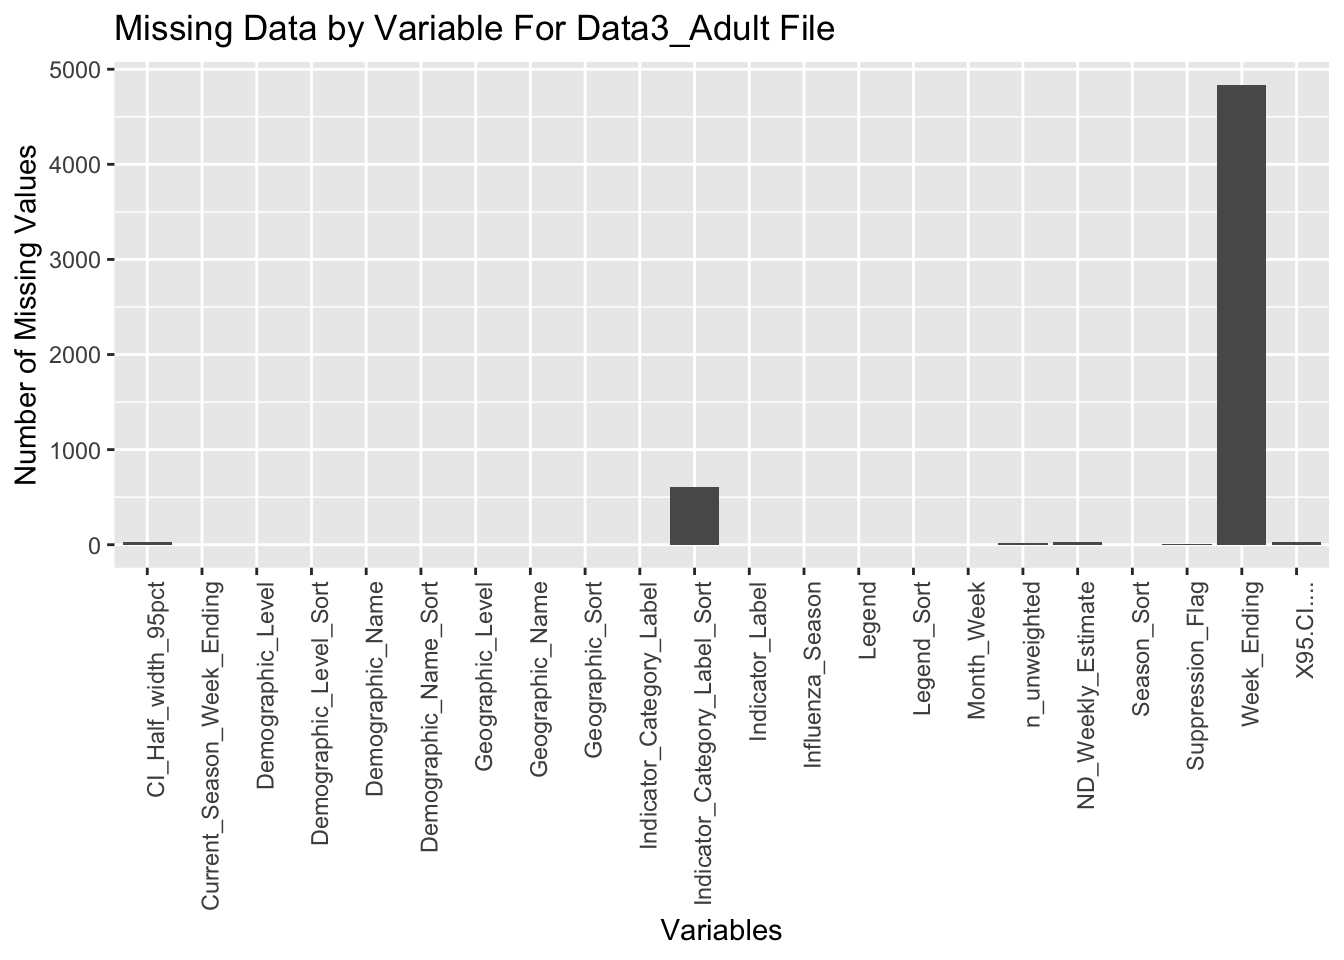
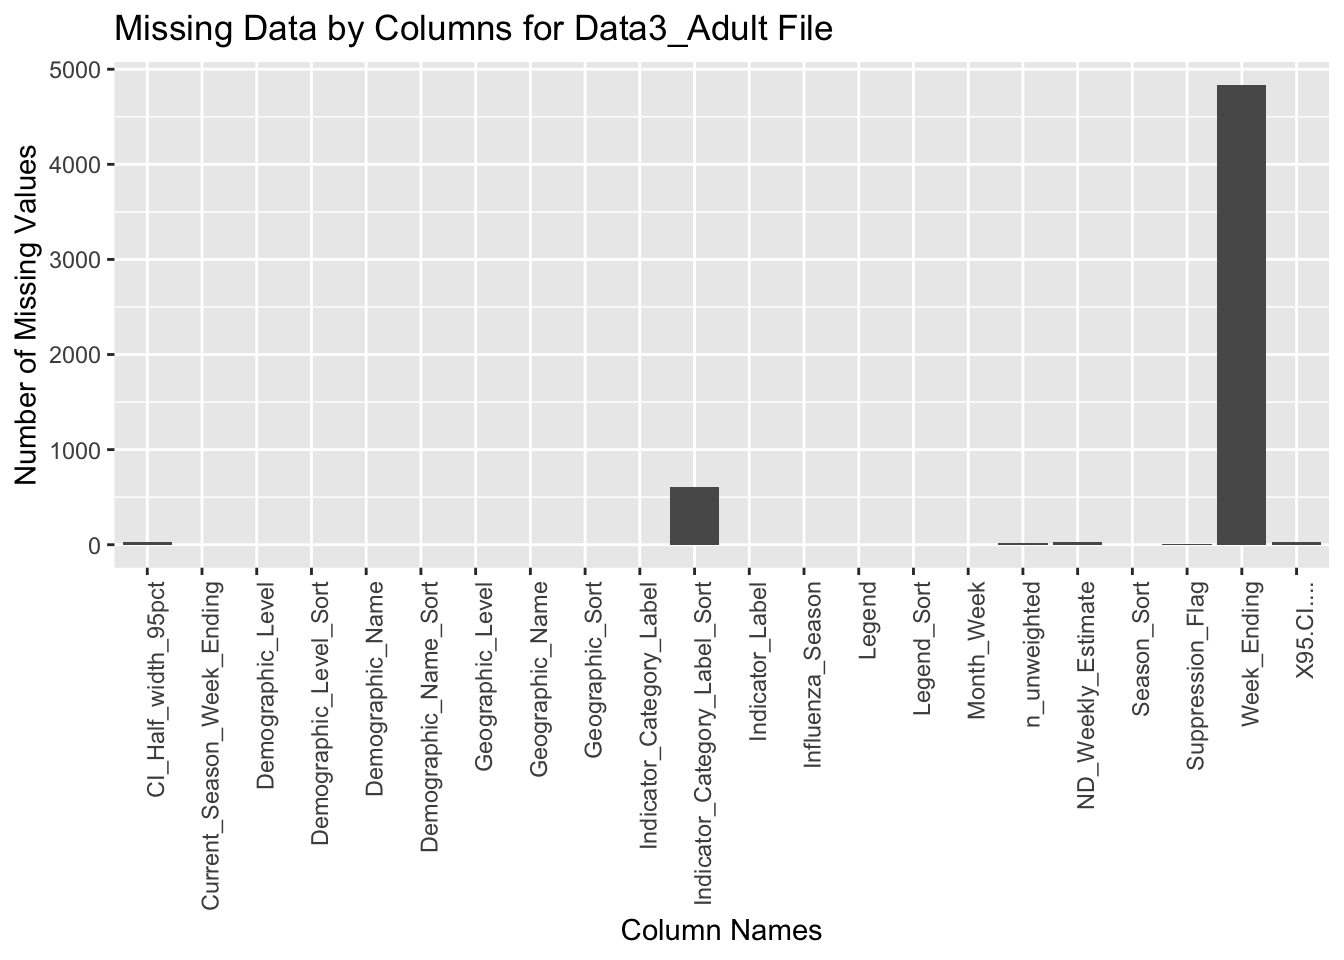
Update data.

Changed region(s): [[0.2812, 0.0, 0.625, 0.0625], [0.4688, 0.9375, 0.625, 1.0]]

diff --git a/docs/data.html b/docs/data.html
@@ -206,7 +206,7 @@ pre > code.sourceCode > span > a:first-child::before { text-decoration: underlin
 <h2 data-number="2.1" class="anchored" data-anchor-id="description"><span class="header-section-number">2.1</span> Description</h2>
 <p>To find out whether there are any changes to disease casualties and other plausible factors that might also cause the changes, we collected several datasets from Centers for Disease Control and Prevention. Thanks to the easy access to the data by the Centers for Disease Control and Prevention, the datasets are all downloadable in csv file types. Thus, we first downloaded the data and then uploaded to the data folder in the working directory of the project for convenience of data cleaning, processing and visualizing.</p>
 <p>Data Source 1:<br>
-The first one is “Pneumonia and Influenza Mortality Surveillance” from National Center for Health Statistics (NCHS) Mortality Surveillance System, a table of dimension 19345 by 14 when choosing state data. The data sources are collected by NCHS through State Vital Statistics Offices across the United States. The deaths which is confirmed through death certificate include multiple cause associated with influenza, pneumonia, or COVID. Because the data are collected weekly, they are updated and aggregated by weeks and will be displayed from 1 to 52 through a complete year. Note that the value total deaths include all the frequency based on ICD-10 multiple cause of death so it doesn’t equal to the sum of deaths from influenza, pneumonia and COVID-19 only.</p>
+The first one is “Pneumonia and Influenza Mortality Surveillance” from National Center for Health Statistics (NCHS) Mortality Surveillance System, a table of dimension 19345 by 14 when choosing state data. The data sources are collected by NCHS through State Vital Statistics Offices across the United States. The deaths which is confirmed through death certificate include multiple causes associated with influenza, pneumonia, or COVID. Because the data are collected weekly, they are updated and aggregated by weeks and will be displayed from 1 to 52 through a complete year. Note that the value total deaths include all the frequency based on ICD-10 multiple cause of death so it doesn’t equal to the sum of deaths from influenza, pneumonia and COVID-19 only.</p>
 <p>The link to the data source is as follows:<br>
 https://gis.cdc.gov/grasp/fluview/Mortality.html</p>
 <p>Data Source 2:<br>
@@ -372,7 +372,7 @@ The final ones are “Weekly Cumulative Influenza Vaccination Coverage, Children
 <p><img src="data_files/figure-html/unnamed-chunk-5-1.png" class="img-fluid" width="672"></p>
 </div>
 </div>
-<p>In dataset 2, a lot of diseases have null values different states such as Alaska, Arkansas, Colorado, Connecticut, Delaware, District of Columbia, Hawaii, Idaho, Indiana, Iowa, Kansas, Louisiana, Maine, Maryland, Minnesota, most of which are missing in influenza and pneumonia, and abnormal clinical findings.</p>
+<p>In dataset 2, a lot of diseases have null values different states such as Alaska, Arkansas, Colorado, Connecticut, Delaware, District of Columbia, Hawaii, Idaho, Indiana, Iowa, Kansas, Louisiana, Maine, Maryland, Minnesota, most of which are missing in influenza and pneumonia, and abnormal clinical findings. Since the column name is relatively long in this file, we use column index while ploting instead.</p>
 <div class="cell">
 <details>
 <summary>Code</summary>
@@ -387,72 +387,70 @@ The final ones are “Weekly Cumulative Influenza Vaccination Coverage, Children
 <span id="cb11-9"><a href="#cb11-9" aria-hidden="true" tabindex="-1"></a></span>
 <span id="cb11-10"><a href="#cb11-10" aria-hidden="true" tabindex="-1"></a><span class="co"># Apply this function to every column in the dataframe</span></span>
 <span id="cb11-11"><a href="#cb11-11" aria-hidden="true" tabindex="-1"></a>missing_counts <span class="ot">&lt;-</span> <span class="fu">sapply</span>(data2, count_missing)</span>
-<span id="cb11-12"><a href="#cb11-12" aria-hidden="true" tabindex="-1"></a><span class="co"># Creating a data frame for ggplot</span></span>
-<span id="cb11-13"><a href="#cb11-13" aria-hidden="true" tabindex="-1"></a>variable_indices <span class="ot">&lt;-</span> <span class="dv">1</span><span class="sc">:</span><span class="fu">length</span>(missing_counts)</span>
-<span id="cb11-14"><a href="#cb11-14" aria-hidden="true" tabindex="-1"></a>missing_data_df1 <span class="ot">&lt;-</span> <span class="fu">data.frame</span>(</span>
-<span id="cb11-15"><a href="#cb11-15" aria-hidden="true" tabindex="-1"></a>  <span class="at">Variable =</span> variable_indices,</span>
-<span id="cb11-16"><a href="#cb11-16" aria-hidden="true" tabindex="-1"></a>  <span class="at">MissingValues =</span> missing_counts</span>
-<span id="cb11-17"><a href="#cb11-17" aria-hidden="true" tabindex="-1"></a>)</span>
-<span id="cb11-18"><a href="#cb11-18" aria-hidden="true" tabindex="-1"></a></span>
-<span id="cb11-19"><a href="#cb11-19" aria-hidden="true" tabindex="-1"></a><span class="co"># Plotting the bar chart</span></span>
-<span id="cb11-20"><a href="#cb11-20" aria-hidden="true" tabindex="-1"></a><span class="fu">ggplot</span>(missing_data_df1, <span class="fu">aes</span>(<span class="at">x =</span> Variable, <span class="at">y =</span> MissingValues)) <span class="sc">+</span></span>
-<span id="cb11-21"><a href="#cb11-21" aria-hidden="true" tabindex="-1"></a>  <span class="fu">geom_bar</span>(<span class="at">stat =</span> <span class="st">"identity"</span>) <span class="sc">+</span></span>
-<span id="cb11-22"><a href="#cb11-22" aria-hidden="true" tabindex="-1"></a>  <span class="fu">theme</span>(<span class="at">axis.text.x =</span> <span class="fu">element_text</span>(<span class="at">angle =</span> <span class="dv">90</span>, <span class="at">hjust =</span> <span class="dv">1</span>)) <span class="sc">+</span></span>
-<span id="cb11-23"><a href="#cb11-23" aria-hidden="true" tabindex="-1"></a>  <span class="fu">labs</span>(<span class="at">x =</span> <span class="st">"Variable Index"</span>, <span class="at">y =</span> <span class="st">"Number of Missing Values"</span>, <span class="at">title =</span> <span class="st">"Missing Data by Variable For Data2 File"</span>)</span></code><button title="Copy to Clipboard" class="code-copy-button"><i class="bi"></i></button></pre></div>
+<span id="cb11-12"><a href="#cb11-12" aria-hidden="true" tabindex="-1"></a></span>
+<span id="cb11-13"><a href="#cb11-13" aria-hidden="true" tabindex="-1"></a><span class="co"># Change column name to its corresponding index</span></span>
+<span id="cb11-14"><a href="#cb11-14" aria-hidden="true" tabindex="-1"></a><span class="co"># Creating a data frame for ggplot</span></span>
+<span id="cb11-15"><a href="#cb11-15" aria-hidden="true" tabindex="-1"></a>variable_indices <span class="ot">&lt;-</span> <span class="dv">1</span><span class="sc">:</span><span class="fu">length</span>(missing_counts)</span>
+<span id="cb11-16"><a href="#cb11-16" aria-hidden="true" tabindex="-1"></a>missing_data_df1 <span class="ot">&lt;-</span> <span class="fu">data.frame</span>(</span>
+<span id="cb11-17"><a href="#cb11-17" aria-hidden="true" tabindex="-1"></a>  <span class="at">Variable =</span> variable_indices,</span>
+<span id="cb11-18"><a href="#cb11-18" aria-hidden="true" tabindex="-1"></a>  <span class="at">MissingValues =</span> missing_counts</span>
+<span id="cb11-19"><a href="#cb11-19" aria-hidden="true" tabindex="-1"></a>)</span>
+<span id="cb11-20"><a href="#cb11-20" aria-hidden="true" tabindex="-1"></a></span>
+<span id="cb11-21"><a href="#cb11-21" aria-hidden="true" tabindex="-1"></a><span class="co"># Plotting the bar chart</span></span>
+<span id="cb11-22"><a href="#cb11-22" aria-hidden="true" tabindex="-1"></a><span class="fu">ggplot</span>(missing_data_df1, <span class="fu">aes</span>(<span class="at">x =</span> Variable, <span class="at">y =</span> MissingValues)) <span class="sc">+</span></span>
+<span id="cb11-23"><a href="#cb11-23" aria-hidden="true" tabindex="-1"></a>  <span class="fu">geom_bar</span>(<span class="at">stat =</span> <span class="st">"identity"</span>) <span class="sc">+</span></span>
+<span id="cb11-24"><a href="#cb11-24" aria-hidden="true" tabindex="-1"></a>  <span class="fu">theme</span>(<span class="at">axis.text.x =</span> <span class="fu">element_text</span>(<span class="at">angle =</span> <span class="dv">90</span>, <span class="at">hjust =</span> <span class="dv">1</span>)) <span class="sc">+</span></span>
+<span id="cb11-25"><a href="#cb11-25" aria-hidden="true" tabindex="-1"></a>  <span class="fu">labs</span>(<span class="at">x =</span> <span class="st">"Variable Index"</span>, <span class="at">y =</span> <span class="st">"Number of Missing Values"</span>, <span class="at">title =</span> <span class="st">"Missing Data by Columns for Data2 File"</span>)</span></code><button title="Copy to Clipboard" class="code-copy-button"><i class="bi"></i></button></pre></div>
 </details>
 <div class="cell-output-display">
 <p><img src="data_files/figure-html/unnamed-chunk-6-1.png" class="img-fluid" width="672"></p>
 </div>
-<details>
-<summary>Code</summary>
-<div class="sourceCode cell-code" id="cb12"><pre class="sourceCode r code-with-copy"><code class="sourceCode r"><span id="cb12-1"><a href="#cb12-1" aria-hidden="true" tabindex="-1"></a><span class="fu">ggsave</span>(<span class="st">'data2missing.png'</span>)</span></code><button title="Copy to Clipboard" class="code-copy-button"><i class="bi"></i></button></pre></div>
-</details>
 </div>
 <p>In dataset 3, it seems that Guam in “Weekly Cumulative Influenza Vaccination Coverage for Children” tends to have missing values for a few estimation variables such as point estimate, and confidence intervals while the data belongs to “Up-to-date” indicator label in “Weekly Cumulative Influenza Vaccination Coverage for Adults” are highly likely to appear missing.</p>
 <div class="cell">
 <details>
 <summary>Code</summary>
-<div class="sourceCode cell-code" id="cb13"><pre class="sourceCode r code-with-copy"><code class="sourceCode r"><span id="cb13-1"><a href="#cb13-1" aria-hidden="true" tabindex="-1"></a>data3_adult <span class="ot">&lt;-</span> <span class="fu">read.csv</span>(<span class="st">"data/data3_adult.csv"</span>)</span>
-<span id="cb13-2"><a href="#cb13-2" aria-hidden="true" tabindex="-1"></a>data3_youth <span class="ot">&lt;-</span> <span class="fu">read.csv</span>(<span class="st">"data/data3_youth.csv"</span>)</span>
-<span id="cb13-3"><a href="#cb13-3" aria-hidden="true" tabindex="-1"></a></span>
-<span id="cb13-4"><a href="#cb13-4" aria-hidden="true" tabindex="-1"></a><span class="co"># Define a function to count missing values</span></span>
-<span id="cb13-5"><a href="#cb13-5" aria-hidden="true" tabindex="-1"></a>count_missing <span class="ot">&lt;-</span> <span class="cf">function</span>(x) {</span>
-<span id="cb13-6"><a href="#cb13-6" aria-hidden="true" tabindex="-1"></a>  na_count <span class="ot">&lt;-</span> <span class="fu">sum</span>(<span class="fu">is.na</span>(x))             <span class="co"># Count NA values</span></span>
-<span id="cb13-7"><a href="#cb13-7" aria-hidden="true" tabindex="-1"></a>  blank_count <span class="ot">&lt;-</span> <span class="fu">sum</span>(x <span class="sc">==</span> <span class="st">""</span>, <span class="at">na.rm =</span> <span class="cn">TRUE</span>) <span class="co"># Count blank strings, remove NA from count</span></span>
-<span id="cb13-8"><a href="#cb13-8" aria-hidden="true" tabindex="-1"></a>  <span class="fu">return</span>(na_count <span class="sc">+</span> blank_count)</span>
-<span id="cb13-9"><a href="#cb13-9" aria-hidden="true" tabindex="-1"></a>}</span>
-<span id="cb13-10"><a href="#cb13-10" aria-hidden="true" tabindex="-1"></a></span>
-<span id="cb13-11"><a href="#cb13-11" aria-hidden="true" tabindex="-1"></a><span class="co"># Apply this function to every column in the dataframe</span></span>
-<span id="cb13-12"><a href="#cb13-12" aria-hidden="true" tabindex="-1"></a>missing_counts3a <span class="ot">&lt;-</span> <span class="fu">sapply</span>(data3_adult, count_missing)</span>
-<span id="cb13-13"><a href="#cb13-13" aria-hidden="true" tabindex="-1"></a>missing_counts3y <span class="ot">&lt;-</span> <span class="fu">sapply</span>(data3_youth, count_missing)</span>
-<span id="cb13-14"><a href="#cb13-14" aria-hidden="true" tabindex="-1"></a><span class="co"># Creating a data frame for ggplot</span></span>
-<span id="cb13-15"><a href="#cb13-15" aria-hidden="true" tabindex="-1"></a>missing_data_df3a <span class="ot">&lt;-</span> <span class="fu">data.frame</span>(</span>
-<span id="cb13-16"><a href="#cb13-16" aria-hidden="true" tabindex="-1"></a>  <span class="at">Variable =</span> <span class="fu">names</span>(missing_counts3a),</span>
-<span id="cb13-17"><a href="#cb13-17" aria-hidden="true" tabindex="-1"></a>  <span class="at">MissingValues =</span> missing_counts3a</span>
-<span id="cb13-18"><a href="#cb13-18" aria-hidden="true" tabindex="-1"></a>)</span>
-<span id="cb13-19"><a href="#cb13-19" aria-hidden="true" tabindex="-1"></a></span>
-<span id="cb13-20"><a href="#cb13-20" aria-hidden="true" tabindex="-1"></a><span class="co"># Plotting the bar chart</span></span>
-<span id="cb13-21"><a href="#cb13-21" aria-hidden="true" tabindex="-1"></a><span class="fu">ggplot</span>(missing_data_df3a, <span class="fu">aes</span>(<span class="at">x =</span> Variable, <span class="at">y =</span> MissingValues)) <span class="sc">+</span></span>
-<span id="cb13-22"><a href="#cb13-22" aria-hidden="true" tabindex="-1"></a>  <span class="fu">geom_bar</span>(<span class="at">stat =</span> <span class="st">"identity"</span>) <span class="sc">+</span></span>
-<span id="cb13-23"><a href="#cb13-23" aria-hidden="true" tabindex="-1"></a>  <span class="fu">theme</span>(<span class="at">axis.text.x =</span> <span class="fu">element_text</span>(<span class="at">angle =</span> <span class="dv">90</span>, <span class="at">hjust =</span> <span class="dv">1</span>)) <span class="sc">+</span></span>
-<span id="cb13-24"><a href="#cb13-24" aria-hidden="true" tabindex="-1"></a>  <span class="fu">labs</span>(<span class="at">x =</span> <span class="st">"Variables"</span>, <span class="at">y =</span> <span class="st">"Number of Missing Values"</span>, <span class="at">title =</span> <span class="st">"Missing Data by Variable For Data3_Adult File"</span>)</span></code><button title="Copy to Clipboard" class="code-copy-button"><i class="bi"></i></button></pre></div>
+<div class="sourceCode cell-code" id="cb12"><pre class="sourceCode r code-with-copy"><code class="sourceCode r"><span id="cb12-1"><a href="#cb12-1" aria-hidden="true" tabindex="-1"></a>data3_adult <span class="ot">&lt;-</span> <span class="fu">read.csv</span>(<span class="st">"data/data3_adult.csv"</span>)</span>
+<span id="cb12-2"><a href="#cb12-2" aria-hidden="true" tabindex="-1"></a>data3_youth <span class="ot">&lt;-</span> <span class="fu">read.csv</span>(<span class="st">"data/data3_youth.csv"</span>)</span>
+<span id="cb12-3"><a href="#cb12-3" aria-hidden="true" tabindex="-1"></a></span>
+<span id="cb12-4"><a href="#cb12-4" aria-hidden="true" tabindex="-1"></a><span class="co"># Define a function to count missing values</span></span>
+<span id="cb12-5"><a href="#cb12-5" aria-hidden="true" tabindex="-1"></a>count_missing <span class="ot">&lt;-</span> <span class="cf">function</span>(x) {</span>
+<span id="cb12-6"><a href="#cb12-6" aria-hidden="true" tabindex="-1"></a>  na_count <span class="ot">&lt;-</span> <span class="fu">sum</span>(<span class="fu">is.na</span>(x))             <span class="co"># Count NA values</span></span>
+<span id="cb12-7"><a href="#cb12-7" aria-hidden="true" tabindex="-1"></a>  blank_count <span class="ot">&lt;-</span> <span class="fu">sum</span>(x <span class="sc">==</span> <span class="st">""</span>, <span class="at">na.rm =</span> <span class="cn">TRUE</span>) <span class="co"># Count blank strings, remove NA from count</span></span>
+<span id="cb12-8"><a href="#cb12-8" aria-hidden="true" tabindex="-1"></a>  <span class="fu">return</span>(na_count <span class="sc">+</span> blank_count)</span>
+<span id="cb12-9"><a href="#cb12-9" aria-hidden="true" tabindex="-1"></a>}</span>
+<span id="cb12-10"><a href="#cb12-10" aria-hidden="true" tabindex="-1"></a></span>
+<span id="cb12-11"><a href="#cb12-11" aria-hidden="true" tabindex="-1"></a><span class="co"># Apply this function to every column in the dataframe</span></span>
+<span id="cb12-12"><a href="#cb12-12" aria-hidden="true" tabindex="-1"></a>missing_counts3a <span class="ot">&lt;-</span> <span class="fu">sapply</span>(data3_adult, count_missing)</span>
+<span id="cb12-13"><a href="#cb12-13" aria-hidden="true" tabindex="-1"></a>missing_counts3y <span class="ot">&lt;-</span> <span class="fu">sapply</span>(data3_youth, count_missing)</span>
+<span id="cb12-14"><a href="#cb12-14" aria-hidden="true" tabindex="-1"></a><span class="co"># Creating a data frame for ggplot</span></span>
+<span id="cb12-15"><a href="#cb12-15" aria-hidden="true" tabindex="-1"></a>missing_data_df3a <span class="ot">&lt;-</span> <span class="fu">data.frame</span>(</span>
+<span id="cb12-16"><a href="#cb12-16" aria-hidden="true" tabindex="-1"></a>  <span class="at">Variable =</span> <span class="fu">names</span>(missing_counts3a),</span>
+<span id="cb12-17"><a href="#cb12-17" aria-hidden="true" tabindex="-1"></a>  <span class="at">MissingValues =</span> missing_counts3a</span>
+<span id="cb12-18"><a href="#cb12-18" aria-hidden="true" tabindex="-1"></a>)</span>
+<span id="cb12-19"><a href="#cb12-19" aria-hidden="true" tabindex="-1"></a></span>
+<span id="cb12-20"><a href="#cb12-20" aria-hidden="true" tabindex="-1"></a><span class="co"># Plotting the bar chart</span></span>
+<span id="cb12-21"><a href="#cb12-21" aria-hidden="true" tabindex="-1"></a><span class="fu">ggplot</span>(missing_data_df3a, <span class="fu">aes</span>(<span class="at">x =</span> Variable, <span class="at">y =</span> MissingValues)) <span class="sc">+</span></span>
+<span id="cb12-22"><a href="#cb12-22" aria-hidden="true" tabindex="-1"></a>  <span class="fu">geom_bar</span>(<span class="at">stat =</span> <span class="st">"identity"</span>) <span class="sc">+</span></span>
+<span id="cb12-23"><a href="#cb12-23" aria-hidden="true" tabindex="-1"></a>  <span class="fu">theme</span>(<span class="at">axis.text.x =</span> <span class="fu">element_text</span>(<span class="at">angle =</span> <span class="dv">90</span>, <span class="at">hjust =</span> <span class="dv">1</span>)) <span class="sc">+</span></span>
+<span id="cb12-24"><a href="#cb12-24" aria-hidden="true" tabindex="-1"></a>  <span class="fu">labs</span>(<span class="at">x =</span> <span class="st">"Column Names"</span>, <span class="at">y =</span> <span class="st">"Number of Missing Values"</span>, <span class="at">title =</span> <span class="st">"Missing Data by Columns for Data3_Adult File"</span>)</span></code><button title="Copy to Clipboard" class="code-copy-button"><i class="bi"></i></button></pre></div>
 </details>
 <div class="cell-output-display">
 <p><img src="data_files/figure-html/unnamed-chunk-7-1.png" class="img-fluid" width="672"></p>
 </div>
 <details>
 <summary>Code</summary>
-<div class="sourceCode cell-code" id="cb14"><pre class="sourceCode r code-with-copy"><code class="sourceCode r"><span id="cb14-1"><a href="#cb14-1" aria-hidden="true" tabindex="-1"></a><span class="co"># Creating a data frame for ggplot</span></span>
-<span id="cb14-2"><a href="#cb14-2" aria-hidden="true" tabindex="-1"></a>missing_data_df3y <span class="ot">&lt;-</span> <span class="fu">data.frame</span>(</span>
-<span id="cb14-3"><a href="#cb14-3" aria-hidden="true" tabindex="-1"></a>  <span class="at">Variable =</span> <span class="fu">names</span>(missing_counts3y),</span>
-<span id="cb14-4"><a href="#cb14-4" aria-hidden="true" tabindex="-1"></a>  <span class="at">MissingValues =</span> missing_counts3y</span>
-<span id="cb14-5"><a href="#cb14-5" aria-hidden="true" tabindex="-1"></a>)</span>
-<span id="cb14-6"><a href="#cb14-6" aria-hidden="true" tabindex="-1"></a></span>
-<span id="cb14-7"><a href="#cb14-7" aria-hidden="true" tabindex="-1"></a><span class="co"># Plotting the bar chart</span></span>
-<span id="cb14-8"><a href="#cb14-8" aria-hidden="true" tabindex="-1"></a><span class="fu">ggplot</span>(missing_data_df3y, <span class="fu">aes</span>(<span class="at">x =</span> Variable, <span class="at">y =</span> MissingValues)) <span class="sc">+</span></span>
-<span id="cb14-9"><a href="#cb14-9" aria-hidden="true" tabindex="-1"></a>  <span class="fu">geom_bar</span>(<span class="at">stat =</span> <span class="st">"identity"</span>) <span class="sc">+</span></span>
-<span id="cb14-10"><a href="#cb14-10" aria-hidden="true" tabindex="-1"></a>  <span class="fu">theme</span>(<span class="at">axis.text.x =</span> <span class="fu">element_text</span>(<span class="at">angle =</span> <span class="dv">90</span>, <span class="at">hjust =</span> <span class="dv">1</span>)) <span class="sc">+</span></span>
-<span id="cb14-11"><a href="#cb14-11" aria-hidden="true" tabindex="-1"></a>  <span class="fu">labs</span>(<span class="at">x =</span> <span class="st">"Variables"</span>, <span class="at">y =</span> <span class="st">"Number of Missing Values"</span>, <span class="at">title =</span> <span class="st">"Missing Data by Variable For Data3_Youth File"</span>)</span></code><button title="Copy to Clipboard" class="code-copy-button"><i class="bi"></i></button></pre></div>
+<div class="sourceCode cell-code" id="cb13"><pre class="sourceCode r code-with-copy"><code class="sourceCode r"><span id="cb13-1"><a href="#cb13-1" aria-hidden="true" tabindex="-1"></a><span class="co"># Creating a data frame for ggplot</span></span>
+<span id="cb13-2"><a href="#cb13-2" aria-hidden="true" tabindex="-1"></a>missing_data_df3y <span class="ot">&lt;-</span> <span class="fu">data.frame</span>(</span>
+<span id="cb13-3"><a href="#cb13-3" aria-hidden="true" tabindex="-1"></a>  <span class="at">Variable =</span> <span class="fu">names</span>(missing_counts3y),</span>
+<span id="cb13-4"><a href="#cb13-4" aria-hidden="true" tabindex="-1"></a>  <span class="at">MissingValues =</span> missing_counts3y</span>
+<span id="cb13-5"><a href="#cb13-5" aria-hidden="true" tabindex="-1"></a>)</span>
+<span id="cb13-6"><a href="#cb13-6" aria-hidden="true" tabindex="-1"></a></span>
+<span id="cb13-7"><a href="#cb13-7" aria-hidden="true" tabindex="-1"></a><span class="co"># Plotting the bar chart</span></span>
+<span id="cb13-8"><a href="#cb13-8" aria-hidden="true" tabindex="-1"></a><span class="fu">ggplot</span>(missing_data_df3y, <span class="fu">aes</span>(<span class="at">x =</span> Variable, <span class="at">y =</span> MissingValues)) <span class="sc">+</span></span>
+<span id="cb13-9"><a href="#cb13-9" aria-hidden="true" tabindex="-1"></a>  <span class="fu">geom_bar</span>(<span class="at">stat =</span> <span class="st">"identity"</span>) <span class="sc">+</span></span>
+<span id="cb13-10"><a href="#cb13-10" aria-hidden="true" tabindex="-1"></a>  <span class="fu">theme</span>(<span class="at">axis.text.x =</span> <span class="fu">element_text</span>(<span class="at">angle =</span> <span class="dv">90</span>, <span class="at">hjust =</span> <span class="dv">1</span>)) <span class="sc">+</span></span>
+<span id="cb13-11"><a href="#cb13-11" aria-hidden="true" tabindex="-1"></a>  <span class="fu">labs</span>(<span class="at">x =</span> <span class="st">"Column Name"</span>, <span class="at">y =</span> <span class="st">"Number of Missing Values"</span>, <span class="at">title =</span> <span class="st">"Missing Data by Columns for Data3_Youth File"</span>)</span></code><button title="Copy to Clipboard" class="code-copy-button"><i class="bi"></i></button></pre></div>
 </details>
 <div class="cell-output-display">
 <p><img src="data_files/figure-html/unnamed-chunk-7-2.png" class="img-fluid" width="672"></p>

diff --git a/docs/index.html b/docs/index.html
@@ -8,7 +8,7 @@
 
 <meta name="author" content="Li-Yu Hung (lh3224)">
 <meta name="author" content="Jiayang Liu (jl6680)">
-<meta name="dcterms.date" content="2023-11-30">
+<meta name="dcterms.date" content="2023-12-01">
 
 <title>Deaths of Different Diseases</title>
 <style>
@@ -171,7 +171,7 @@ ul.task-list li input[type="checkbox"] {
     <div>
     <div class="quarto-title-meta-heading">Published</div>
     <div class="quarto-title-meta-contents">
-      <p class="date">November 30, 2023</p>
+      <p class="date">December 1, 2023</p>
     </div>
   </div>
   
